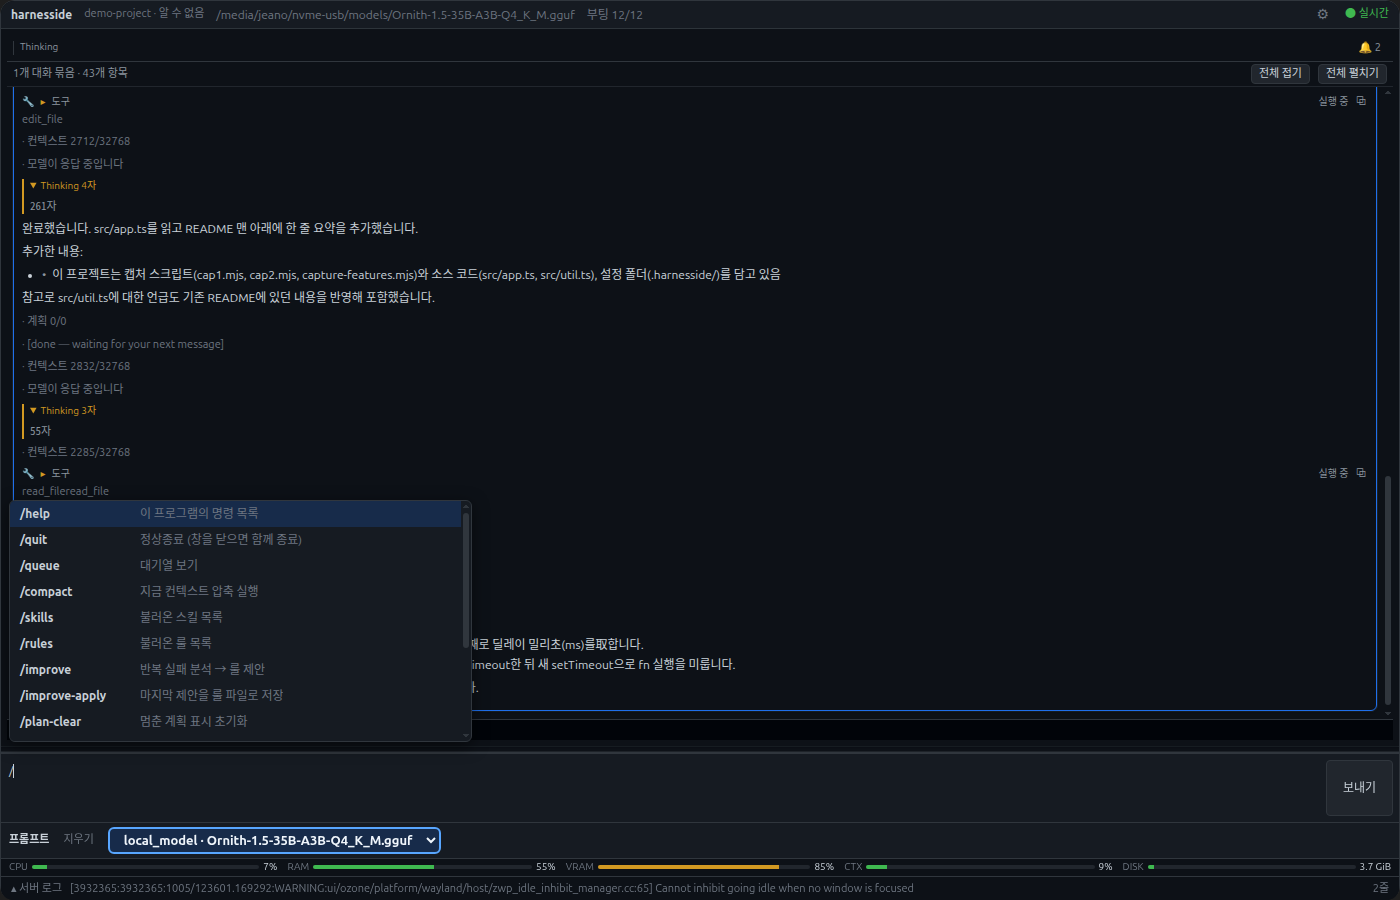
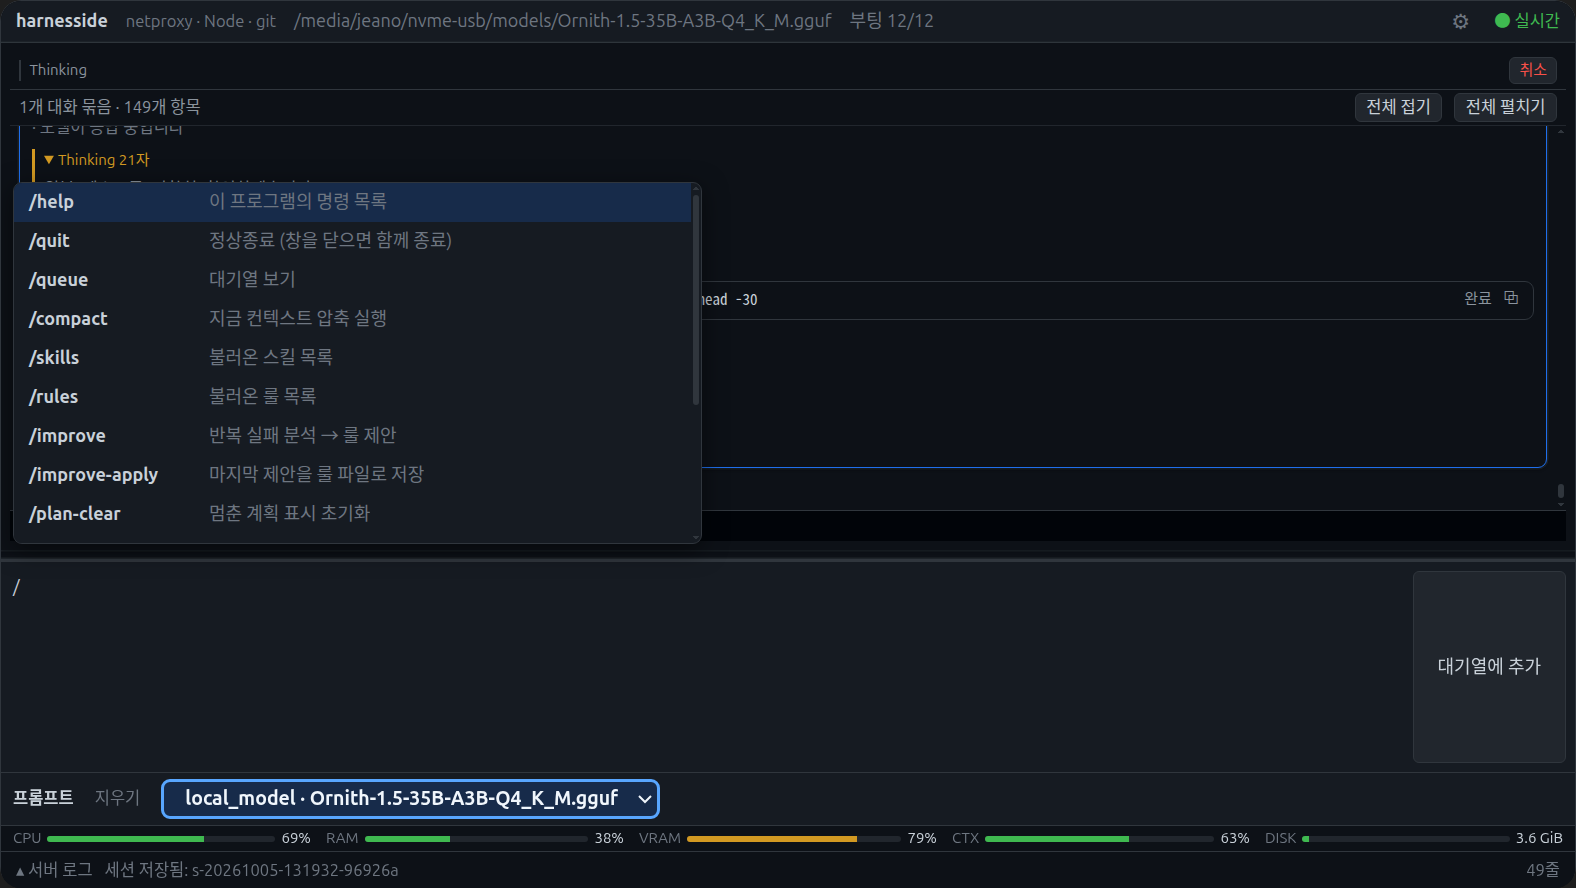
fix(ui): 출력마다 붙던 컨텍스트 줄 제거 + 재개 안내문 Markdown 구조화
- onContextUsage의 agent.status 방출 제거 (하단 상태바와 중복)
- buildResumePrompt 섹션 라벨 굵게, 여러 줄 status 블록 Markdown 렌더

diff --git a/src/web/panels/ToolBlock.tsx b/src/web/panels/ToolBlock.tsx
@@ -202,18 +202,73 @@ export function ToolBlock({
   }
   if (isFileTool(name, args) && path) return <FileBlock label={labelFor(name)} path={path} done={done} client={client} />;
 
-  // **판별할 수 없는 도구** — 한 줄로 말한다. 추측해서 에디터를 열지 않는다.
-  // 헤더 계약(BlockHeader): 도형+이름+대상+상태+복사. 색만으로 알리지 않는다.
+  // **판별할 수 없는 도구** — 한 줄로 말하고 펼치면 호출 내용을 보여준다.
+  // 예전엔 헤더 줄 + 결과 미리보기 줄의 두 줄이었고, 정작 "어떻게 호출됐는지"
+  // (인자)는 어디에도 없었다. 헤더 계약(도형+이름+상태)은 접힌 한 줄에 두고,
+  // 호출 인자와 결과는 펼쳤을 때만 보여준다.
+  return <GenericToolBlock name={name} argsText={typeof args === "string" ? args : undefined} done={done} text={block.text} />;
+}
+
+/** 인자를 사람이 읽는 모양으로 — 못 읽으면 원문 그대로(지어내지 않는다). */
+export function formatToolCall(name: string, argsText?: string): string {
+  if (!argsText) return `${name}()`;
+  try {
+    return `${name}(${JSON.stringify(JSON.parse(argsText), null, 2)})`;
+  } catch {
+    return `${name}(${argsText})`;
+  }
+}
+
+/** 판별 불가 도구 한 줄 — 펼치면 호출(인자)과 결과를 보여준다. */
+function GenericToolBlock({ name, argsText, done, text }: { name: string; argsText?: string; done: boolean; text: string }) {
+  const [open, setOpen] = React.useState(false);
+  const [copied, setCopied] = React.useState(false);
+  const callText = formatToolCall(name, argsText);
   return (
     <div>
-      <BlockHeader
-        kind={isShell(name, args) ? "shell" : isFileTool(name, args) ? "file" : /search/i.test(name) ? "search" : "tool"}
-        target={labelFor(name)}
-        status={done ? "완료" : "실행 중"}
-        done={done}
-        copyText={block.text || undefined}
-      />
-      {block.text ? <div style={{ color: DIM, fontSize: FONT.AUX }}>{block.text.slice(0, 120)}</div> : null}
+      <div style={{ display: "flex", alignItems: "center", gap: 6, fontSize: FONT.META, color: COLOR.DIM, marginBottom: open ? 2 : 0, minWidth: 0 }}>
+        <button
+          type="button"
+          onClick={() => setOpen((v) => !v)}
+          aria-expanded={open}
+          title={open ? "호출 내용 접기" : "호출 내용 펼치기"}
+          style={{ background: "none", border: 0, color: done ? COLOR.GOOD : COLOR.DIM, cursor: "pointer", font: "inherit", fontSize: FONT.META, padding: 0, display: "flex", alignItems: "center", gap: 6, minWidth: 0, flex: "1 1 auto" }}
+        >
+          <span aria-hidden="true">🔧</span>
+          <span aria-hidden="true">{open ? "▾" : "▸"}</span>
+          <span style={{ color: COLOR.DIM, flexShrink: 0 }}>{labelFor(name)}</span>
+          <span style={{ flexShrink: 0 }}>{done ? "완료" : "실행 중"}</span>
+        </button>
+        <button
+          type="button"
+          aria-label="호출 내용 복사"
+          title={copied ? "복사됨" : "복사"}
+          onClick={() => {
+            try {
+              void navigator.clipboard?.writeText(callText);
+              setCopied(true);
+              setTimeout(() => setCopied(false), 1200);
+            } catch {
+              /* 클립보드 실패는 조용히 둔다 */
+            }
+          }}
+          style={{ flexShrink: 0, background: "transparent", color: copied ? COLOR.GOOD : COLOR.DIM, border: 0, cursor: "pointer", font: "inherit", fontSize: FONT.META, padding: "0 2px" }}
+        >
+          {copied ? "✓" : "⧉"}
+        </button>
+      </div>
+      {open && (
+        <div style={{ border: `1px solid ${BORDER}`, borderRadius: RADIUS.M, background: COLOR.SURFACE_1, overflow: "hidden" }}>
+          <pre style={{ margin: 0, padding: "6px 8px", maxHeight: 240, overflow: "auto", whiteSpace: "pre-wrap", wordBreak: "break-word", font: "11px/1.5 ui-monospace, monospace", color: FG }}>
+            {callText}
+          </pre>
+          {text ? (
+            <div style={{ borderTop: `1px solid ${BORDER}`, padding: "6px 8px", color: DIM, fontSize: FONT.AUX, whiteSpace: "pre-wrap", wordBreak: "break-word" }}>
+              {text.slice(0, 2000)}
+            </div>
+          ) : null}
+        </div>
+      )}
     </div>
   );
 }

diff --git a/src/compaction/compactor.ts b/src/compaction/compactor.ts
@@ -711,9 +711,14 @@ export async function buildResumePrompt(
   // agent seems to be picking up mid-task.
   const resumeReasonText = checkpoint.reason === "plan-progress" ? "resuming previous session" : "resuming after compaction";
   const lines = [
+    // 이 텍스트는 모델 입력であると 동시에 화면 출력이다: injectResumeContextIfPending()이
+    // 그대로 onStatus → status 블록으로 흘린다. `label:\n내용` 평문이면 화면에서
+    // 수천 자 벽으로 보인다(실측). 섹션 라벨만 **굵게**로 구조화한다. 첫 줄은
+    // loop.test.ts 가 `startsWith("[resuming")`·`previous goal: ...` 원문으로
+    // 고정하므로 손대지 않는다 — 화면에서는 Markdown 이 대괄호를 그대로 보여준다.
     `[${resumeReasonText}] previous goal: ${stripResumePrefix(checkpoint.goal)}`,
     remaining.length
-      ? `remaining steps:\n${remaining.map((s) => `- (${s.status}) ${s.description}`).join("\n")}`
+      ? `**remaining steps:**\n${remaining.map((s) => `- (${s.status}) ${s.description}`).join("\n")}`
       : checkpoint.steps.length
         ? "All plan steps were already done — re-verifying before wrapping up."
         : // No plan was declared. Saying "all steps done" here (the tool
@@ -721,21 +726,21 @@ export async function buildResumePrompt(
           // nothing left to do.
           "No plan was recorded for this work.",
     includeSummary && checkpoint.summary
-      ? `summary of the previous session:\n${
+      ? `**summary of the previous session:**\n${
           checkpoint.summary.length > RESUME_SUMMARY_MAX_CHARS
             ? checkpoint.summary.slice(0, RESUME_SUMMARY_MAX_CHARS) + " …"
             : checkpoint.summary
         }`
       : "",
-    includeSummary && notes ? `working notes (findings recorded before; trust these over re-deriving them):\n${notes}` : "",
-    checkpoint.recentActions?.length ? `recent actions:\n${checkpoint.recentActions.map((a) => `- ${a}`).join("\n")}` : "",
+    includeSummary && notes ? `**working notes** (findings recorded before; trust these over re-deriving them):\n${notes}` : "",
+    checkpoint.recentActions?.length ? `**recent actions:**\n${checkpoint.recentActions.map((a) => `- ${a}`).join("\n")}` : "",
     checkpoint.pendingToolCall
-      ? `interrupted tool call: ${checkpoint.pendingToolCall.name} (${checkpoint.pendingToolCall.reason})`
+      ? `**interrupted tool call:** ${checkpoint.pendingToolCall.name} (${checkpoint.pendingToolCall.reason})`
       : "",
     checkpoint.files.length
-      ? `files touched:\n${checkpoint.files.map((f) => `- (${f.status}) ${f.path}`).join("\n")}`
+      ? `**files touched:**\n${checkpoint.files.map((f) => `- (${f.status}) ${f.path}`).join("\n")}`
       : "",
-    "Continue the task from where it stopped. If it is already complete, verify that and report the result.",
+    "*Continue the task from where it stopped. If it is already complete, verify that and report the result.*",
   ].filter(Boolean);
 
   return lines.join("\n\n");

diff --git a/src/compaction/compactor.test.ts b/src/compaction/compactor.test.ts
@@ -1164,3 +1164,30 @@ test("recommendThresholds tightens the post-compaction target only when overhead
   assert.equal(recommendThresholds(32_768).postCompactionTargetRatio, 0.4);
   assert.equal(recommendThresholds(4096).postCompactionTargetRatio, 0.3);
 });
+
+test("buildResumePrompt structures sections as markdown but keeps the first line machine-readable", async () => {
+  const dir = await mkdtemp(join(tmpdir(), "harnesside-test-"));
+  try {
+    await writeCheckpoint(dir, {
+      version: 1,
+      timestamp: new Date().toISOString(),
+      reason: "auto-threshold",
+      goal: "do the thing",
+      steps: [{ description: "x", status: "todo" }],
+      files: [{ path: "a.ts", status: "modified" }],
+      pendingToolCall: null,
+      mustPreserve: [],
+      summary: "S",
+    });
+    const prompt = (await buildResumePrompt(dir))!;
+    // 화면 렌더(Markdown)용 구조 — 라벨이 굵게여야 한다.
+    assert.match(prompt, /\*\*remaining steps:\*\*/);
+    assert.match(prompt, /\*\*files touched:\*\*/);
+    // 기계 계약은 그대로 — loop.test.ts 가 startsWith/정확 문구로 고정한다.
+    assert.ok(prompt.startsWith("[resuming"), "first line must stay machine-readable");
+    assert.equal(prompt.match(/previous goal:/g)!.length, 1);
+    assert.match(prompt, /previous goal: do the thing/);
+  } finally {
+    await rm(dir, { recursive: true, force: true });
+  }
+});

diff --git a/src/web/panels/AgentPanel.tsx b/src/web/panels/AgentPanel.tsx
@@ -721,7 +721,20 @@ function BlockBody({
       </div>
     );
   }
-  if (b.kind === "status") return <div style={{ color: "#6e7681", fontSize: 11 }}>· {b.text}</div>;
+  // 한 줄 상태는 그대로. 여러 줄 상태(재개 안내문·압축 보고 등)는 구조가 있는
+  // 글이므로 Markdown 으로 그린다 — 평문으로 두면 수천 자 벽이 된다(실측).
+  // 짧은 한 줄까지 Markdown 에 넣으면 앞의 `·` 약 속 표기가 문단으로 바뀌어
+  // 로그 흐름이 끊기므로, 개행이 있을 때만 분기한다.
+  if (b.kind === "status") {
+    if (b.text.includes("\n")) {
+      return (
+        <div style={{ borderLeft: "2px solid #30363d", paddingLeft: 8, margin: "4px 0", wordBreak: "break-word" }}>
+          <Markdown text={b.text} />
+        </div>
+      );
+    }
+    return <div style={{ color: "#6e7681", fontSize: 11 }}>· {b.text}</div>;
+  }
   if (b.kind === "error") return <div style={{ color: "#f85149", fontSize: 11 }}>오류: {b.text}</div>;
   return (
     <ToolBlock

diff --git a/src/server/agentService.ts b/src/server/agentService.ts
@@ -450,9 +450,10 @@ export class AgentService {
         });
       },
       onContextUsage: (used, total) => {
-        // 실측값을 들고 있는다 — 계측기(1Hz)가 읽는다. 텍스트 상태 줄도 유지한다.
+        // 실측값만 들고 있는다 — 하단 상태바(1Hz 계측기 + AgentPanel)가 읽는다.
+        // 예전엔 텍스트 상태 줄(`컨텍스트 N/M`)도 함께 내보냈는데, 출력마다
+        // `· 컨텍스트 …` 가 붙어 상태바와 중복이었다(실측 지적). 말하지 않는다.
         this.lastUsage = { usedTokens: used, totalTokens: total };
-        this.emit({ type: "agent.status", text: `컨텍스트 ${used}/${total}`, at: now() });
       },
       approvalGate: this.opts.approvalGate ?? undefined,
     });
